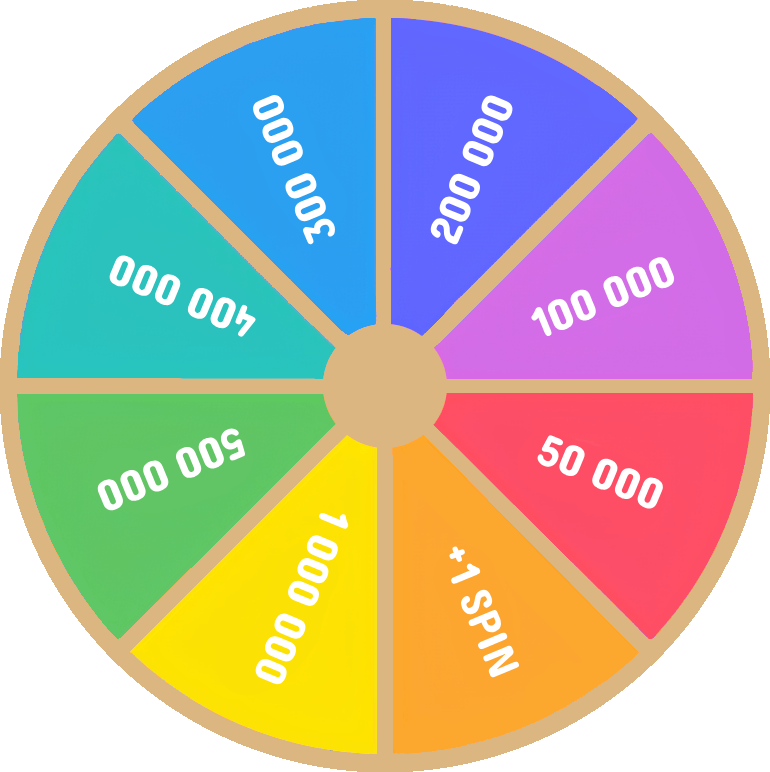
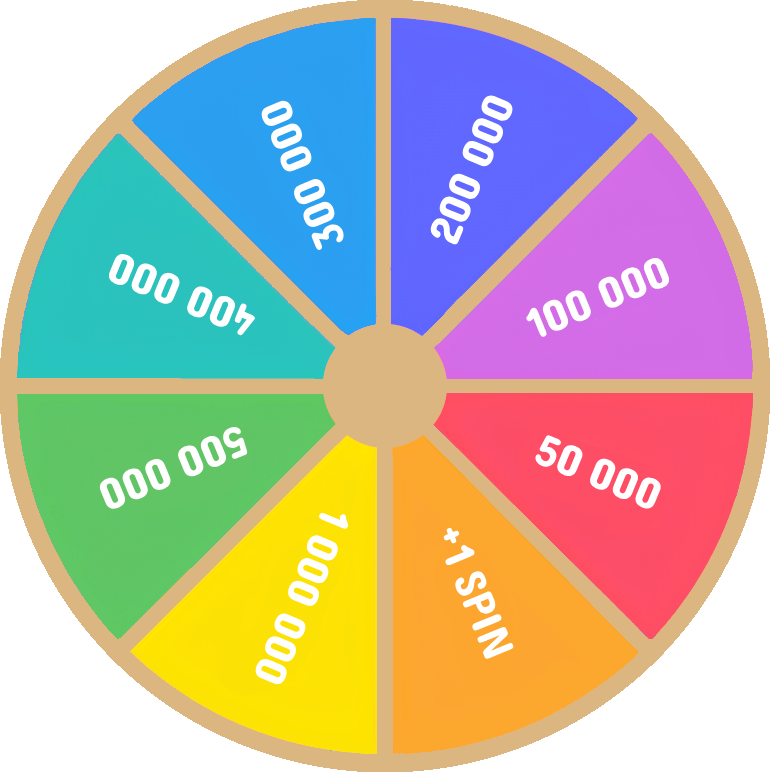
.

diff --git a/flutter_service_worker.js b/flutter_service_worker.js
@@ -21,11 +21,11 @@ const RESOURCES = {".git/COMMIT_EDITMSG": "8cf8463b34caa8ac871a52d5dd7ad1ef",
 ".git/hooks/push-to-checkout.sample": "c7ab00c7784efeadad3ae9b228d4b4db",
 ".git/hooks/sendemail-validate.sample": "4d67df3a8d5c98cb8565c07e42be0b04",
 ".git/hooks/update.sample": "647ae13c682f7827c22f5fc08a03674e",
-".git/index": "940651743e5993371cbd5f5a18535d82",
+".git/index": "2561630e08193ee90ec84dd4942acc73",
 ".git/info/exclude": "036208b4a1ab4a235d75c181e685e5a3",
-".git/logs/HEAD": "7011cfaf929b790e91b81e77f9149ab5",
-".git/logs/refs/heads/main": "aa188755df652096dfc2b4fb2608a244",
-".git/logs/refs/remotes/origin/main": "1f6acaca54b2d06d4f59e935b9a8177c",
+".git/logs/HEAD": "82b8b49a585bb8b798dc17ea407cf166",
+".git/logs/refs/heads/main": "186085edd7abb8f582dc23c61d5aeeeb",
+".git/logs/refs/remotes/origin/main": "63a81cc91a2debc9aa5d5f313349a1b0",
 ".git/objects/00/19ff3026584933d705390c0f991506e461c607": "6d4fdaa5f64676cfa7e5c1c2a726ebbb",
 ".git/objects/00/1b6db664f86c569d39b59e5778244610098e9a": "cfc3721d7d5d68060535c64b0773b7cc",
 ".git/objects/00/1c38fba92b6fe0ae9b1bdffee7ade9eb068a0e": "d38b03ee3236b54ee578ab069f3fc916",
@@ -152,6 +152,7 @@ const RESOURCES = {".git/COMMIT_EDITMSG": "8cf8463b34caa8ac871a52d5dd7ad1ef",
 ".git/objects/0d/194b9243e4f7c91409c48356bbdc140fca219d": "86128b9172e7f8a0805fb894c7ce70b4",
 ".git/objects/0d/29a9f7eabd24747cc83c1b7dbdf68dc78b80df": "e44d6dcf1e7a727d8cfbe891b8784374",
 ".git/objects/0d/4a7e8291c3d7f8221d77749c5babc8ec58a37f": "4c4a32e052498e1cde05a989cf595a78",
+".git/objects/0d/5f4623c00a3ae58ece3e165d03d06d8855446a": "59ff72da02ed09612722d1a0344ce7f5",
 ".git/objects/0d/6abdebb425d4580f64de78b9dcb7754310f31b": "878fd26899b05ceba3883986d0a4e288",
 ".git/objects/0d/a1c792d717cfd51c7639b1390352684f802883": "9ed2b263ab432e2d326140b04644405b",
 ".git/objects/0d/bbe5ee88ef913c2521cdb967721ceca69f388e": "79c29843e51523b801b5411cc704b219",
@@ -295,6 +296,7 @@ const RESOURCES = {".git/COMMIT_EDITMSG": "8cf8463b34caa8ac871a52d5dd7ad1ef",
 ".git/objects/1b/af5575b9152dd9f43789df9fda5df8e19c5a5d": "af26a8520d5c62dc2207dc2a5bbc9918",
 ".git/objects/1b/afb0dd96f64bf9b28d8f2cd8b323e11ffcfb54": "7ea69e0ad075bb54866b0aa13bc299ea",
 ".git/objects/1b/f1943f6857591a6255583ee02875178ebca88a": "a7bc4a5c9161771f6788c0be1b0d1368",
+".git/objects/1b/f41ee58cbbaa537d035cd549fc29932372403e": "7c560d26d9b0aa139efefab2ae6e8cf3",
 ".git/objects/1b/f69055597d29b3f7129761d46eae2598b7bfef": "e35fc4b1772844dbd9e423dd16ce6aad",
 ".git/objects/1c/0685baed5bda84310e5213e8f2646ecb9be328": "10e7532eb391b1a6dfa0da18ace90534",
 ".git/objects/1c/45ffdec77788c261f11bbe02953d6f9a319a7d": "bb004f0f51f0eb136a24c61fb93630a8",
@@ -318,6 +320,7 @@ const RESOURCES = {".git/COMMIT_EDITMSG": "8cf8463b34caa8ac871a52d5dd7ad1ef",
 ".git/objects/1f/6f1d19defe3ff71c7ea603ec6c4eb309f15be3": "467477bed28dd8b6c4c4b4a60d3a240d",
 ".git/objects/1f/7302945f5fd8c5463a832146d17c6decc39719": "516af3bee14916954dcc3fdbded3f157",
 ".git/objects/1f/8d63c5f90c9b906946aac1aacd488eb881be4b": "df0171a3823800a2cc0dd7354e762e5a",
+".git/objects/1f/90104df7073e8b335dd55473aa72ce9e6e7a10": "00b6eda117470c06f968782ebca3b51d",
 ".git/objects/1f/912affcad47c5945a58e6c7cf937e24930394d": "cf067dfebdc69bdc83975e53962e6209",
 ".git/objects/1f/d4eba981038f523481fd27e654478fd1f91202": "3a457781a9fef77f1ac485120b30b8e1",
 ".git/objects/1f/eff6e4d4213d154f156bd864e3a15cabeba6e9": "542d4fa08cf5ccb201a4d8796b939873",
@@ -412,6 +415,7 @@ const RESOURCES = {".git/COMMIT_EDITMSG": "8cf8463b34caa8ac871a52d5dd7ad1ef",
 ".git/objects/2a/8a6f2a080023df512815f95b93647cfed83e02": "abb06f640f25af38464782413e1c2df8",
 ".git/objects/2b/01194eeb1c34008507e59d2068c3534b15c168": "02d5c5e0741e285fd9abe78460e879ff",
 ".git/objects/2b/0914f1cb0a5477eca8b322d16ed7dac6dffba1": "b6e62bae7096a0b7b6cf6230519f9ad2",
+".git/objects/2b/11e3aaf3aa87717bcca1888d17fe8ced20ddc4": "97a21ecaa21ffd54f5f56b474c994846",
 ".git/objects/2b/1bfc713c574c5bb6ec28f2d200ca1ac1b23caf": "2f5af63409e283808291c056b5c975e0",
 ".git/objects/2b/280fd40cea10ba9612af1a801e25c82d8f2f8f": "0994e7e63fa5c738834f8970c1831c2f",
 ".git/objects/2b/6baeb51d7f75903faa09dfaa1161f77ecef519": "6074c3eb7cc37bfb4527947dfe74e146",
@@ -1067,6 +1071,7 @@ const RESOURCES = {".git/COMMIT_EDITMSG": "8cf8463b34caa8ac871a52d5dd7ad1ef",
 ".git/objects/78/f29a9b7e71bab0d1a7551adaa0f3f96431fb4e": "9ec53f0aa2c2a1fb534dda02a8452ca8",
 ".git/objects/79/123a4ff55297f85223270fb42598c6c873127d": "d96f69c70c8a2ce3db9389e76e96ed2b",
 ".git/objects/79/2f0a08deacbcdad30593bfe5399e44093b46a2": "483f579197c74e5e54c5fa111637a883",
+".git/objects/79/3502ca07e4ca423651d575ac6dfebe28f04ffa": "c63e6a589d0f6549cd9cac8a02f31d79",
 ".git/objects/79/499e7fd67537bcb7ab770d372be9cb5dc81ec0": "a53d776168a8f67f23695ba7ebe2a3a5",
 ".git/objects/79/51300b068991f7f6859a8543837d90b3d57509": "9ef3c0456b71d08d0ed7eb63142f657a",
 ".git/objects/79/5ff7729c26e839fa9065b61b96be41a8512eb9": "ef4e3d20dd7e70ebb5c5d042782eac7d",
@@ -1153,6 +1158,7 @@ const RESOURCES = {".git/COMMIT_EDITMSG": "8cf8463b34caa8ac871a52d5dd7ad1ef",
 ".git/objects/80/d873edaac14ce980da6f42dcf52439410ec0df": "99259b6fc589a1bba9d34951e7182b89",
 ".git/objects/80/e84274c4b8e10d97b06daa708911ce15b3c12d": "69840ebaa64d5a018ed1174b8372f4f8",
 ".git/objects/80/f6e70280dd4105be2acab8b5dfbbdaf7ffe34a": "c2713e6dc6e3425d09b7108e7f320db3",
+".git/objects/81/433c6e5368b76c4b9722bfb2d70badbad55edc": "390402a3755b89b1b8b2dc16fdd62001",
 ".git/objects/81/4830fd0af2e4664fc3bed5f18defbc2dac6422": "ecf05974a21870e88f0cf4281dc63c9b",
 ".git/objects/81/4b20c18f3b23486185ccf54c9bb8057915a1d4": "584d30d4ec0ab6d51a14221a8e8eb838",
 ".git/objects/81/5bcd7865707957240cf7e4af2655ac2d4908c7": "630142489d71ec38acfc083f6f5be4f9",
@@ -1299,6 +1305,7 @@ const RESOURCES = {".git/COMMIT_EDITMSG": "8cf8463b34caa8ac871a52d5dd7ad1ef",
 ".git/objects/90/bcfcf0a77ab618a826db0fd8b0942963b653af": "fc109675cdf1233dd6599a4c3c0a7a69",
 ".git/objects/90/beaea4769f4f694189bf25f1c36530ed084452": "fb2b4e107aa5dba6eb9cc596a469aea6",
 ".git/objects/90/d3adb6e28354ab97f749460a12ece6d911aaf9": "3abab6e66d2c7ba8a10bb63d67b6da52",
+".git/objects/90/f7899989360175fef9ed833ef613e95d9d00c1": "fc783b745ae4c7c80fdf6bb096568e44",
 ".git/objects/91/1202ead50aee6d054c19b10636d5f02541973f": "b46d3d195f3318ac07b148efc7d82b36",
 ".git/objects/91/253cae66102a7a4a9c14493e3a88c8bcb4906d": "b16e089752b1e78b06e6511dd7abfd0d",
 ".git/objects/91/2b5582ff2966f3f1f9983676a7822432aee50b": "ad0a5019f9dd72db9a5ed70df2ee9f65",
@@ -1415,6 +1422,7 @@ const RESOURCES = {".git/COMMIT_EDITMSG": "8cf8463b34caa8ac871a52d5dd7ad1ef",
 ".git/objects/9c/7664c4e6507ec77859e8407e643c1d94d4bced": "9a944178cd4bdbe923975c42b82ccc84",
 ".git/objects/9c/7b1ea9db15a737ae76deefa32494a215670ae1": "463edb8d6b7722c53a893bf59b5956b3",
 ".git/objects/9c/9ae412fe86355c74e515229e281812b5ba7d9e": "ad51e1a1fcdc1b4742ce5803b7da1d35",
+".git/objects/9c/a625846c512789079fc6da526b224bace599ca": "d3fc1a654f70ff73722b970abe4288a3",
 ".git/objects/9c/bc689c593cc0054bf6c85c1aeb628b8007ef4d": "25a20de04304297592ab27760bdb3a33",
 ".git/objects/9c/c551c04199dc37decfac4605ff47b5268c7e7d": "6ae6c1921ced7e877553c32a1a4cb1fb",
 ".git/objects/9c/c8f35e844e21873b3a8f016d0c37fa544d8e22": "05a141329eebea9bb6d4d4ced72c2b32",
@@ -1552,6 +1560,7 @@ const RESOURCES = {".git/COMMIT_EDITMSG": "8cf8463b34caa8ac871a52d5dd7ad1ef",
 ".git/objects/ab/7cfc35199eca1d3b9b16a6d6cf180e2da2a984": "f8f8f860f259dca707f1bebf5ed70a4a",
 ".git/objects/ab/9305d9c79884768cc384027e925b5f9722a0d4": "8de91c3916896839bc98cb63bb362e88",
 ".git/objects/ab/db3ed6fb62da3d516039b9f30558eccd3d07af": "cbae9a943004f0a81e014bbeac8bda6d",
+".git/objects/ab/eb40209ce589e87b4a53ea8d25d51a046d24ac": "cf076a0cea160be979ee2e0510f1d570",
 ".git/objects/ab/ff3a30a992056fb2c4520cfa0a1c0a0bd9a9af": "7f7d52a63e560642249d8ccf4fe25dda",
 ".git/objects/ac/009b97cece28090119e1c5eb3768969ae75577": "a0fb7621e2d1c047e23cd005a3345579",
 ".git/objects/ac/1339e38cf8a5954c637ebc0ac32a9ce9237d28": "0db854e70dd9f9d981eb78f4cd111ca7",
@@ -1612,6 +1621,7 @@ const RESOURCES = {".git/COMMIT_EDITMSG": "8cf8463b34caa8ac871a52d5dd7ad1ef",
 ".git/objects/b3/a7c4ee71bfe16435e5e7c6f65b0276a31dc7f1": "4ee73fd40a6d9d582972cfef577cc7c2",
 ".git/objects/b3/ac51ed7cab90a9ab650ed850631bb9155f9ec0": "6a40177f8d83048cb894ef0ea935ec78",
 ".git/objects/b3/b61569c49bfb15ce047da23795ef6572e4addb": "02463e9ff8ae91786d5447a223cb3ede",
+".git/objects/b3/bd64394ed71a8e41cbf0b41dff40a3f7be467a": "900836e760170f1f446a71327f9c8376",
 ".git/objects/b4/15f40cfea8a5db519a03750b5667b0eeaec95b": "8a625d189ecc582e9d2d4fba51b11f07",
 ".git/objects/b4/42f2b20ca73021f9d8897d5dbecba032639b80": "fb4b36242758a0ba0c488520e98ced3a",
 ".git/objects/b4/4c0955fd2fd93d7c43d2a5827c2a190c082f97": "06e81290829557c2608071a9ab355940",
@@ -1696,6 +1706,7 @@ const RESOURCES = {".git/COMMIT_EDITMSG": "8cf8463b34caa8ac871a52d5dd7ad1ef",
 ".git/objects/bc/5e39ddd89d9f1c09ef7f1ee77547fbf957b299": "52142bee58a08d39196bced90d9f1b00",
 ".git/objects/bc/7b58671fbaae273f0364a82888f7c14d77353c": "394fadf72b3112986f2cbf645776aadc",
 ".git/objects/bc/8694fec3cce0e6fcc26dd301fe1611506ce3f2": "f01d6c2052ed13063a2b17466167b433",
+".git/objects/bc/b94ae9909fcce61bb20bb6f69283cbc154b03f": "5af650aa5f65c7a365047b6af6bed41b",
 ".git/objects/bc/c21db2c943cf5df4f37f4873c00f4829a5c651": "46e4acac673a0a302003cd35e854d0e8",
 ".git/objects/bd/0f80a06f5cbb9d59b84e317a712ebf1abe67bc": "442282279aba533e8fcca1d565bf0c43",
 ".git/objects/bd/194fb144d7da719e1652339a44b57e3a02cdb6": "aa4e63159ada7ba173f8bbcdca58a364",
@@ -1946,6 +1957,7 @@ const RESOURCES = {".git/COMMIT_EDITMSG": "8cf8463b34caa8ac871a52d5dd7ad1ef",
 ".git/objects/d9/6301a622026e7531659c28b2709c112452ce46": "dc12f401082ca48e47130bc2820fb11c",
 ".git/objects/d9/87cbbbdd05e254b29544612ad62e77c33ed29e": "8df065990e32cb8401a9f1d6b0bccbe2",
 ".git/objects/d9/8911faf1a5f67e1f23363cf5ae728b0f311289": "a331c4360d5e1e7d2dfb309eeca42fc9",
+".git/objects/d9/955c29799d89809690261a62af3143ac77984b": "b3ad11014d2d76c879ba90738dad3255",
 ".git/objects/d9/cd8e4c0134cae85cb72480b8ff01d6404d65dd": "20fd994ed7aae62cc343c1057b4d1b40",
 ".git/objects/d9/d116dfd540e9163a3235c8608146409234130d": "fa6e0b8cde15737542fc07ef103565fb",
 ".git/objects/d9/da3bd6396e15788539a883fa734e0e371581a1": "33f36e9969a24a6b15b2580de9b85f0d",
@@ -2280,8 +2292,8 @@ const RESOURCES = {".git/COMMIT_EDITMSG": "8cf8463b34caa8ac871a52d5dd7ad1ef",
 ".git/objects/ff/c45c70f14a4f1dbd133acd92e2fda4b1efd8a8": "15d665c3ea6e37802635f305b98a159b",
 ".git/ORIG_HEAD": "8dfcc537e7d7533f3be9e7e9236b19f8",
 ".git/REBASE_HEAD": "8dfcc537e7d7533f3be9e7e9236b19f8",
-".git/refs/heads/main": "489a929932c56e5887c78c497781f829",
-".git/refs/remotes/origin/main": "489a929932c56e5887c78c497781f829",
+".git/refs/heads/main": "1823107b3465f5485afd0f6a4af4a499",
+".git/refs/remotes/origin/main": "1823107b3465f5485afd0f6a4af4a499",
 "assets/AssetManifest.bin": "5b28aa14b77aad6f713bad50071cd819",
 "assets/AssetManifest.bin.json": "cf9c0a9e74cd2ff00a2323059fe132b6",
 "assets/AssetManifest.json": "ace5d04f111f1334ef875a650e206813",
@@ -2297,7 +2309,7 @@ const RESOURCES = {".git/COMMIT_EDITMSG": "8cf8463b34caa8ac871a52d5dd7ad1ef",
 "assets/assets/images/rb_roulette.png": "3ddfe6caab1f21dfbd9a78577271efb6",
 "assets/assets/images/rb_roulette_border.png": "f98ba49bfd296caec9d67050253bf356",
 "assets/assets/images/roulette100.png": "4a000a56fb931a2ec838c2c110de0a21",
-"assets/assets/images/roulette1M.png": "7b69ffcbac50b104dad69cb62609137f",
+"assets/assets/images/roulette1M.png": "232011bf67204d1cb59448836502f5d0",
 "assets/assets/images/roulette250.png": "fa74e4f238c27ca1374b5477f7cd57f7",
 "assets/assets/images/roulette50.png": "3554fe73e7b13a5974d6fc50a4414460",
 "assets/assets/images/roulette500.png": "e7514bfac4d976e169ed3077d36a9068",
@@ -2321,7 +2333,7 @@ const RESOURCES = {".git/COMMIT_EDITMSG": "8cf8463b34caa8ac871a52d5dd7ad1ef",
 "canvaskit/skwasm.worker.js": "89990e8c92bcb123999aa81f7e203b1c",
 "favicon.png": "5dcef449791fa27946b3d35ad8803796",
 "flutter.js": "f393d3c16b631f36852323de8e583132",
-"flutter_bootstrap.js": "fe3d5e56bbc5ab196361eed2628de837",
+"flutter_bootstrap.js": "c59e65aa7203d8f8cdaa2af753bc4a62",
 "icons/Icon-192.png": "ac9a721a12bbc803b44f645561ecb1e1",
 "icons/Icon-512.png": "96e752610906ba2a93c65f8abe1645f1",
 "icons/Icon-maskable-192.png": "c457ef57daa1d16f64b27b786ec2ea3c",

diff --git a/flutter_bootstrap.js b/flutter_bootstrap.js
@@ -11,6 +11,6 @@ _flutter.buildConfig = {"engineRevision":"a18df97ca57a249df5d8d68cd0820600223ce2
 
 _flutter.loader.load({
   serviceWorkerSettings: {
-    serviceWorkerVersion: "133411042"
+    serviceWorkerVersion: "1848314005"
   }
 });
